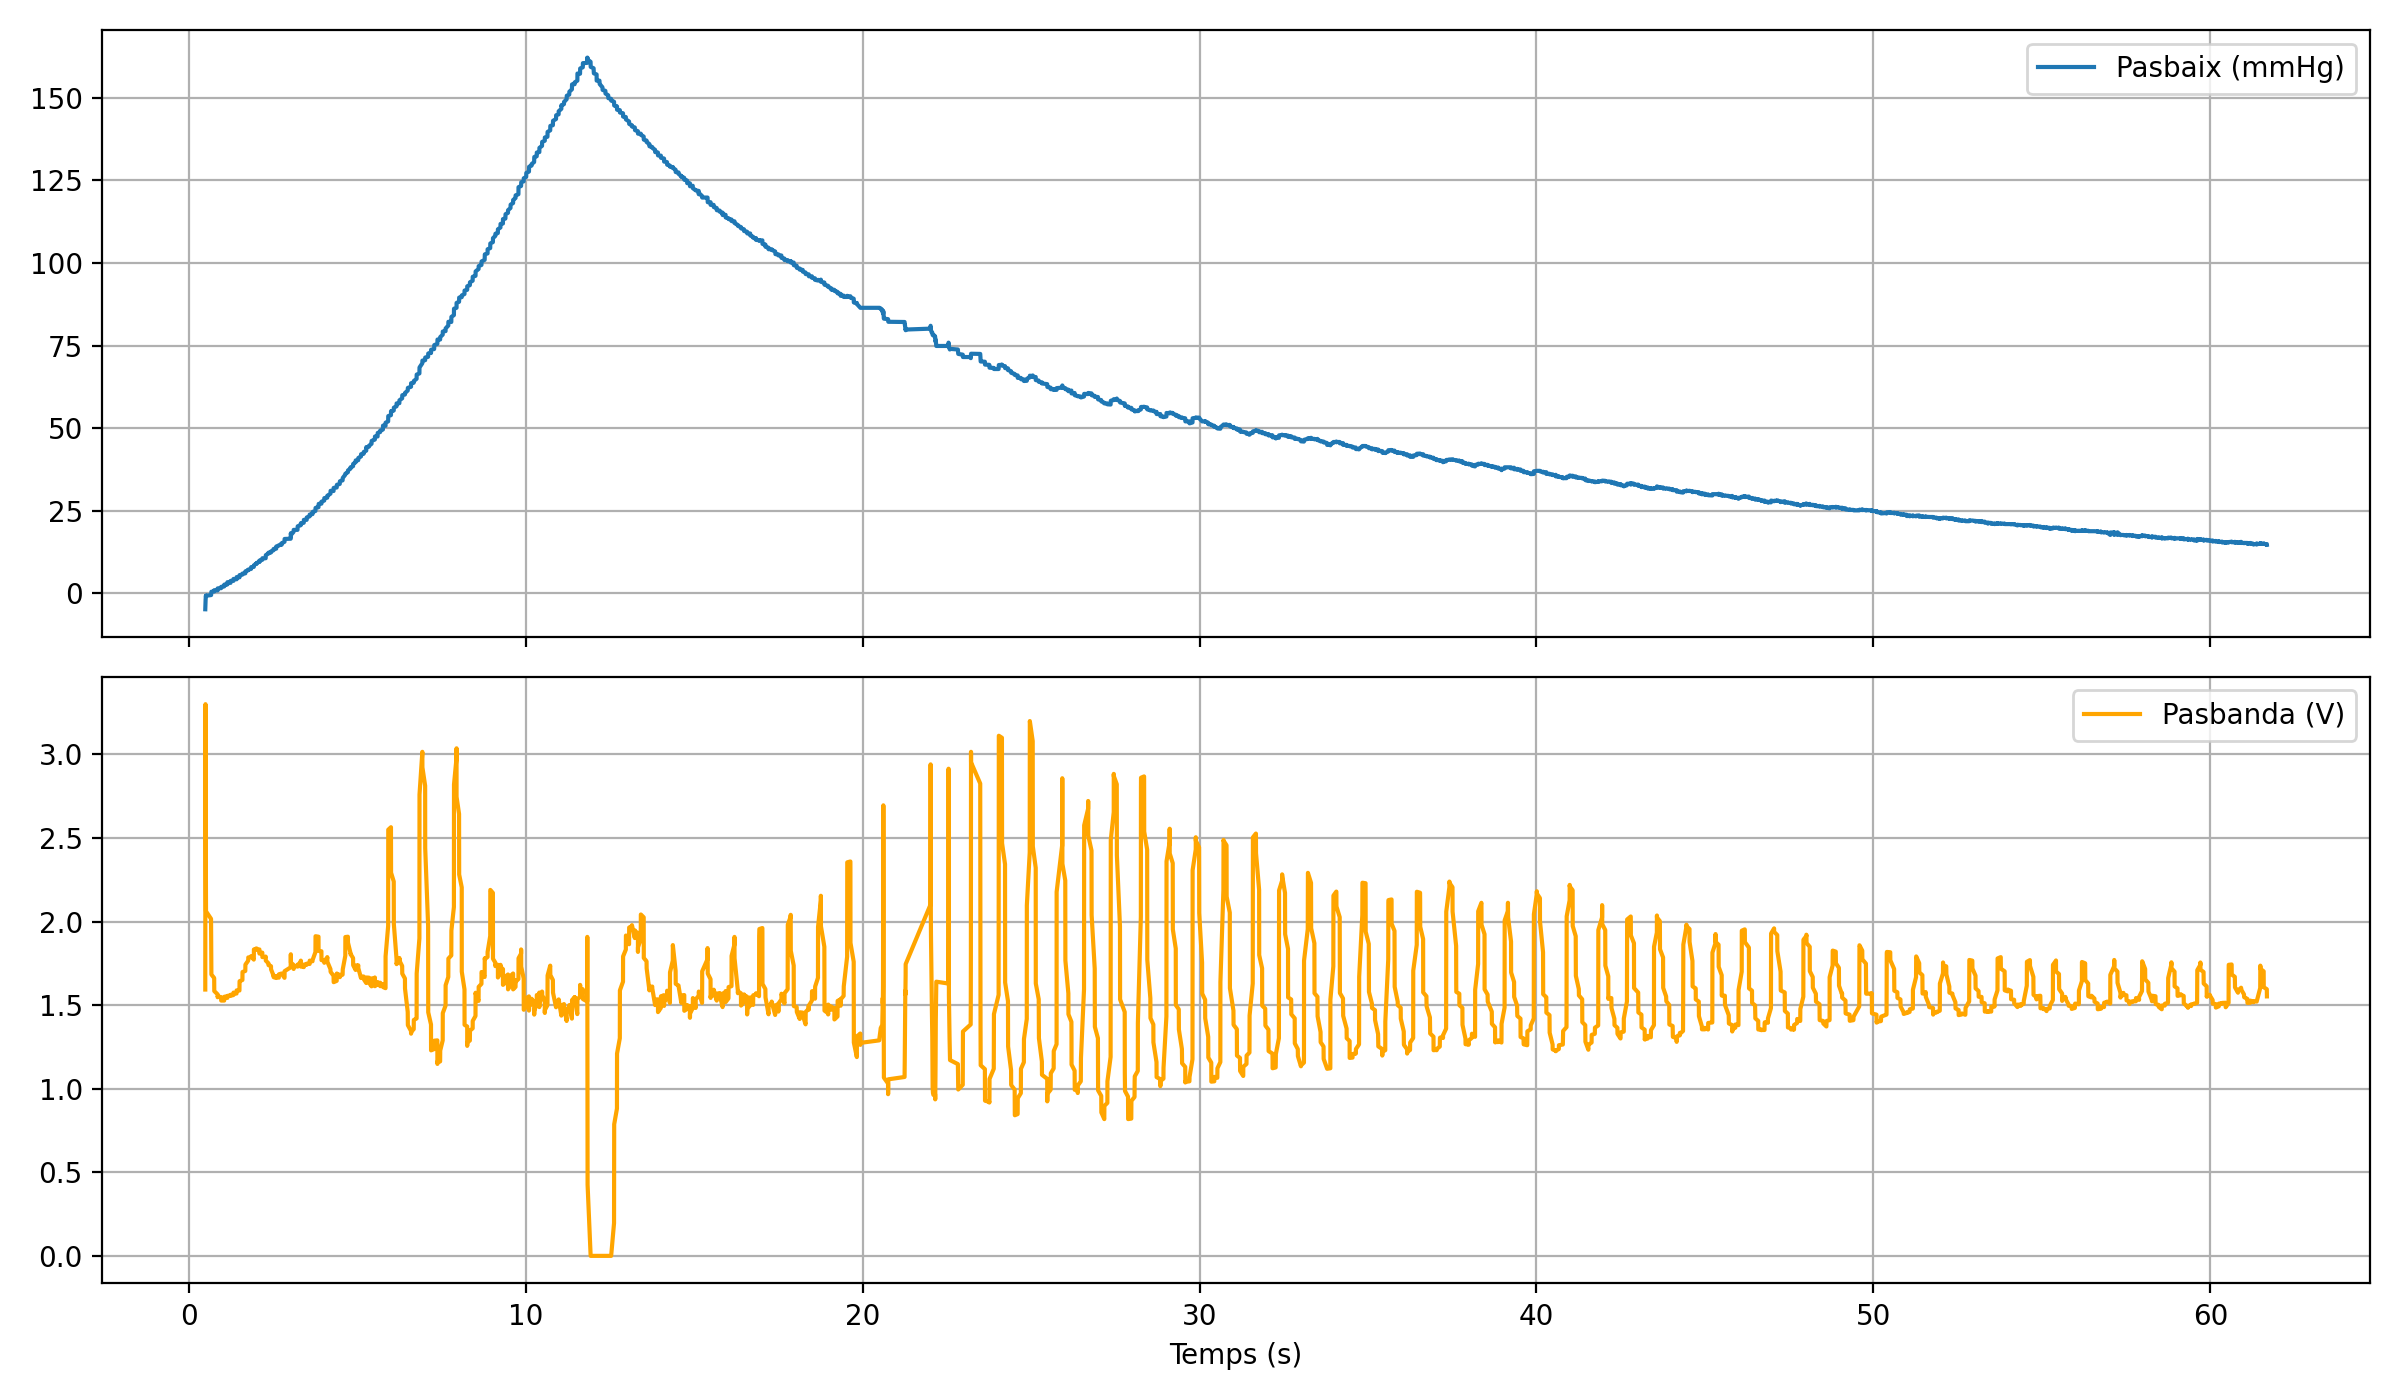
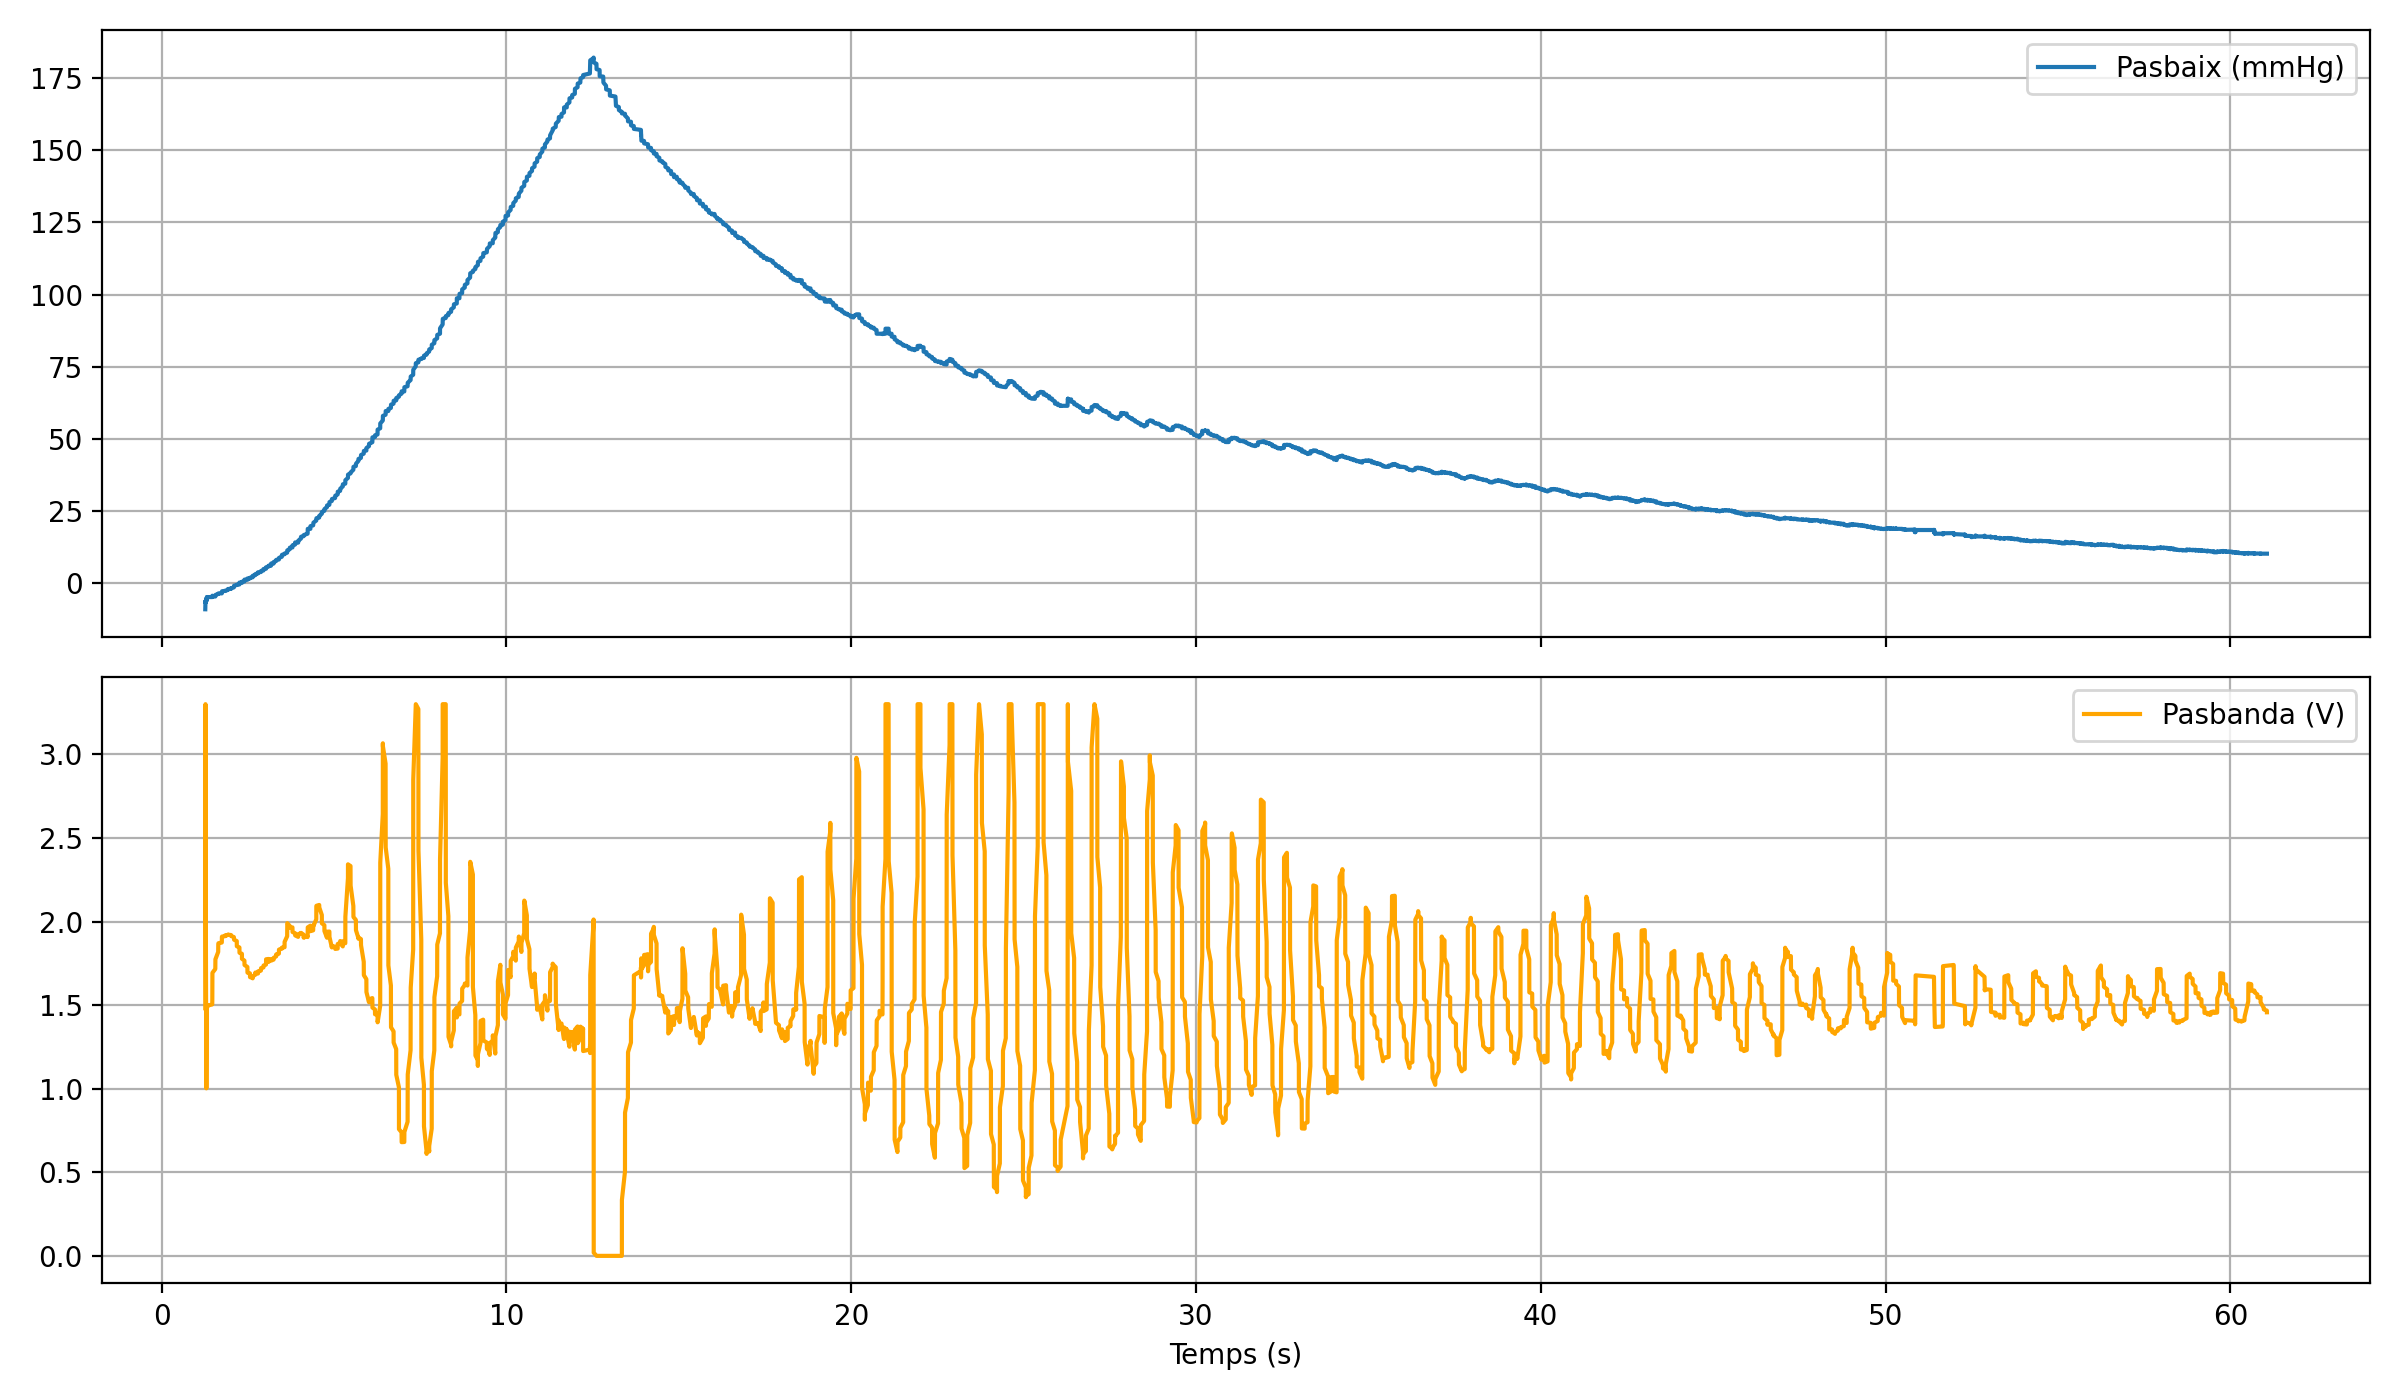
ult canvis que no recordo si ho he pujat

diff --git a/src/pyfinal.py b/src/pyfinal.py
@@ -169,9 +169,6 @@ def on_close(_event):
                 if 50 <= p <= 150
             ]
 
-            # Ignorem els primers punts vàlids per evitar errors
-           # idx_valids_map = idx_valids_map[5:]
-
             if len(idx_valids_map) > 0:
                 idx_map = max(idx_valids_map, key=lambda i: amplituds[i])
             else:
@@ -185,10 +182,10 @@ def on_close(_event):
 
             # Rang fisiològic segons MAP per evitar falsos pics inicials
             rang_sys_min = map_pressio + 5
-            rang_sys_max = map_pressio + 180
+            rang_sys_max = map_pressio + 100
 
             rang_dia_min = 40
-            rang_dia_max = map_pressio
+            rang_dia_max = map_pressio-5
 
             # SISTÒLICA: abans del MAP però descartant pressions  altes
             idx_sys = None